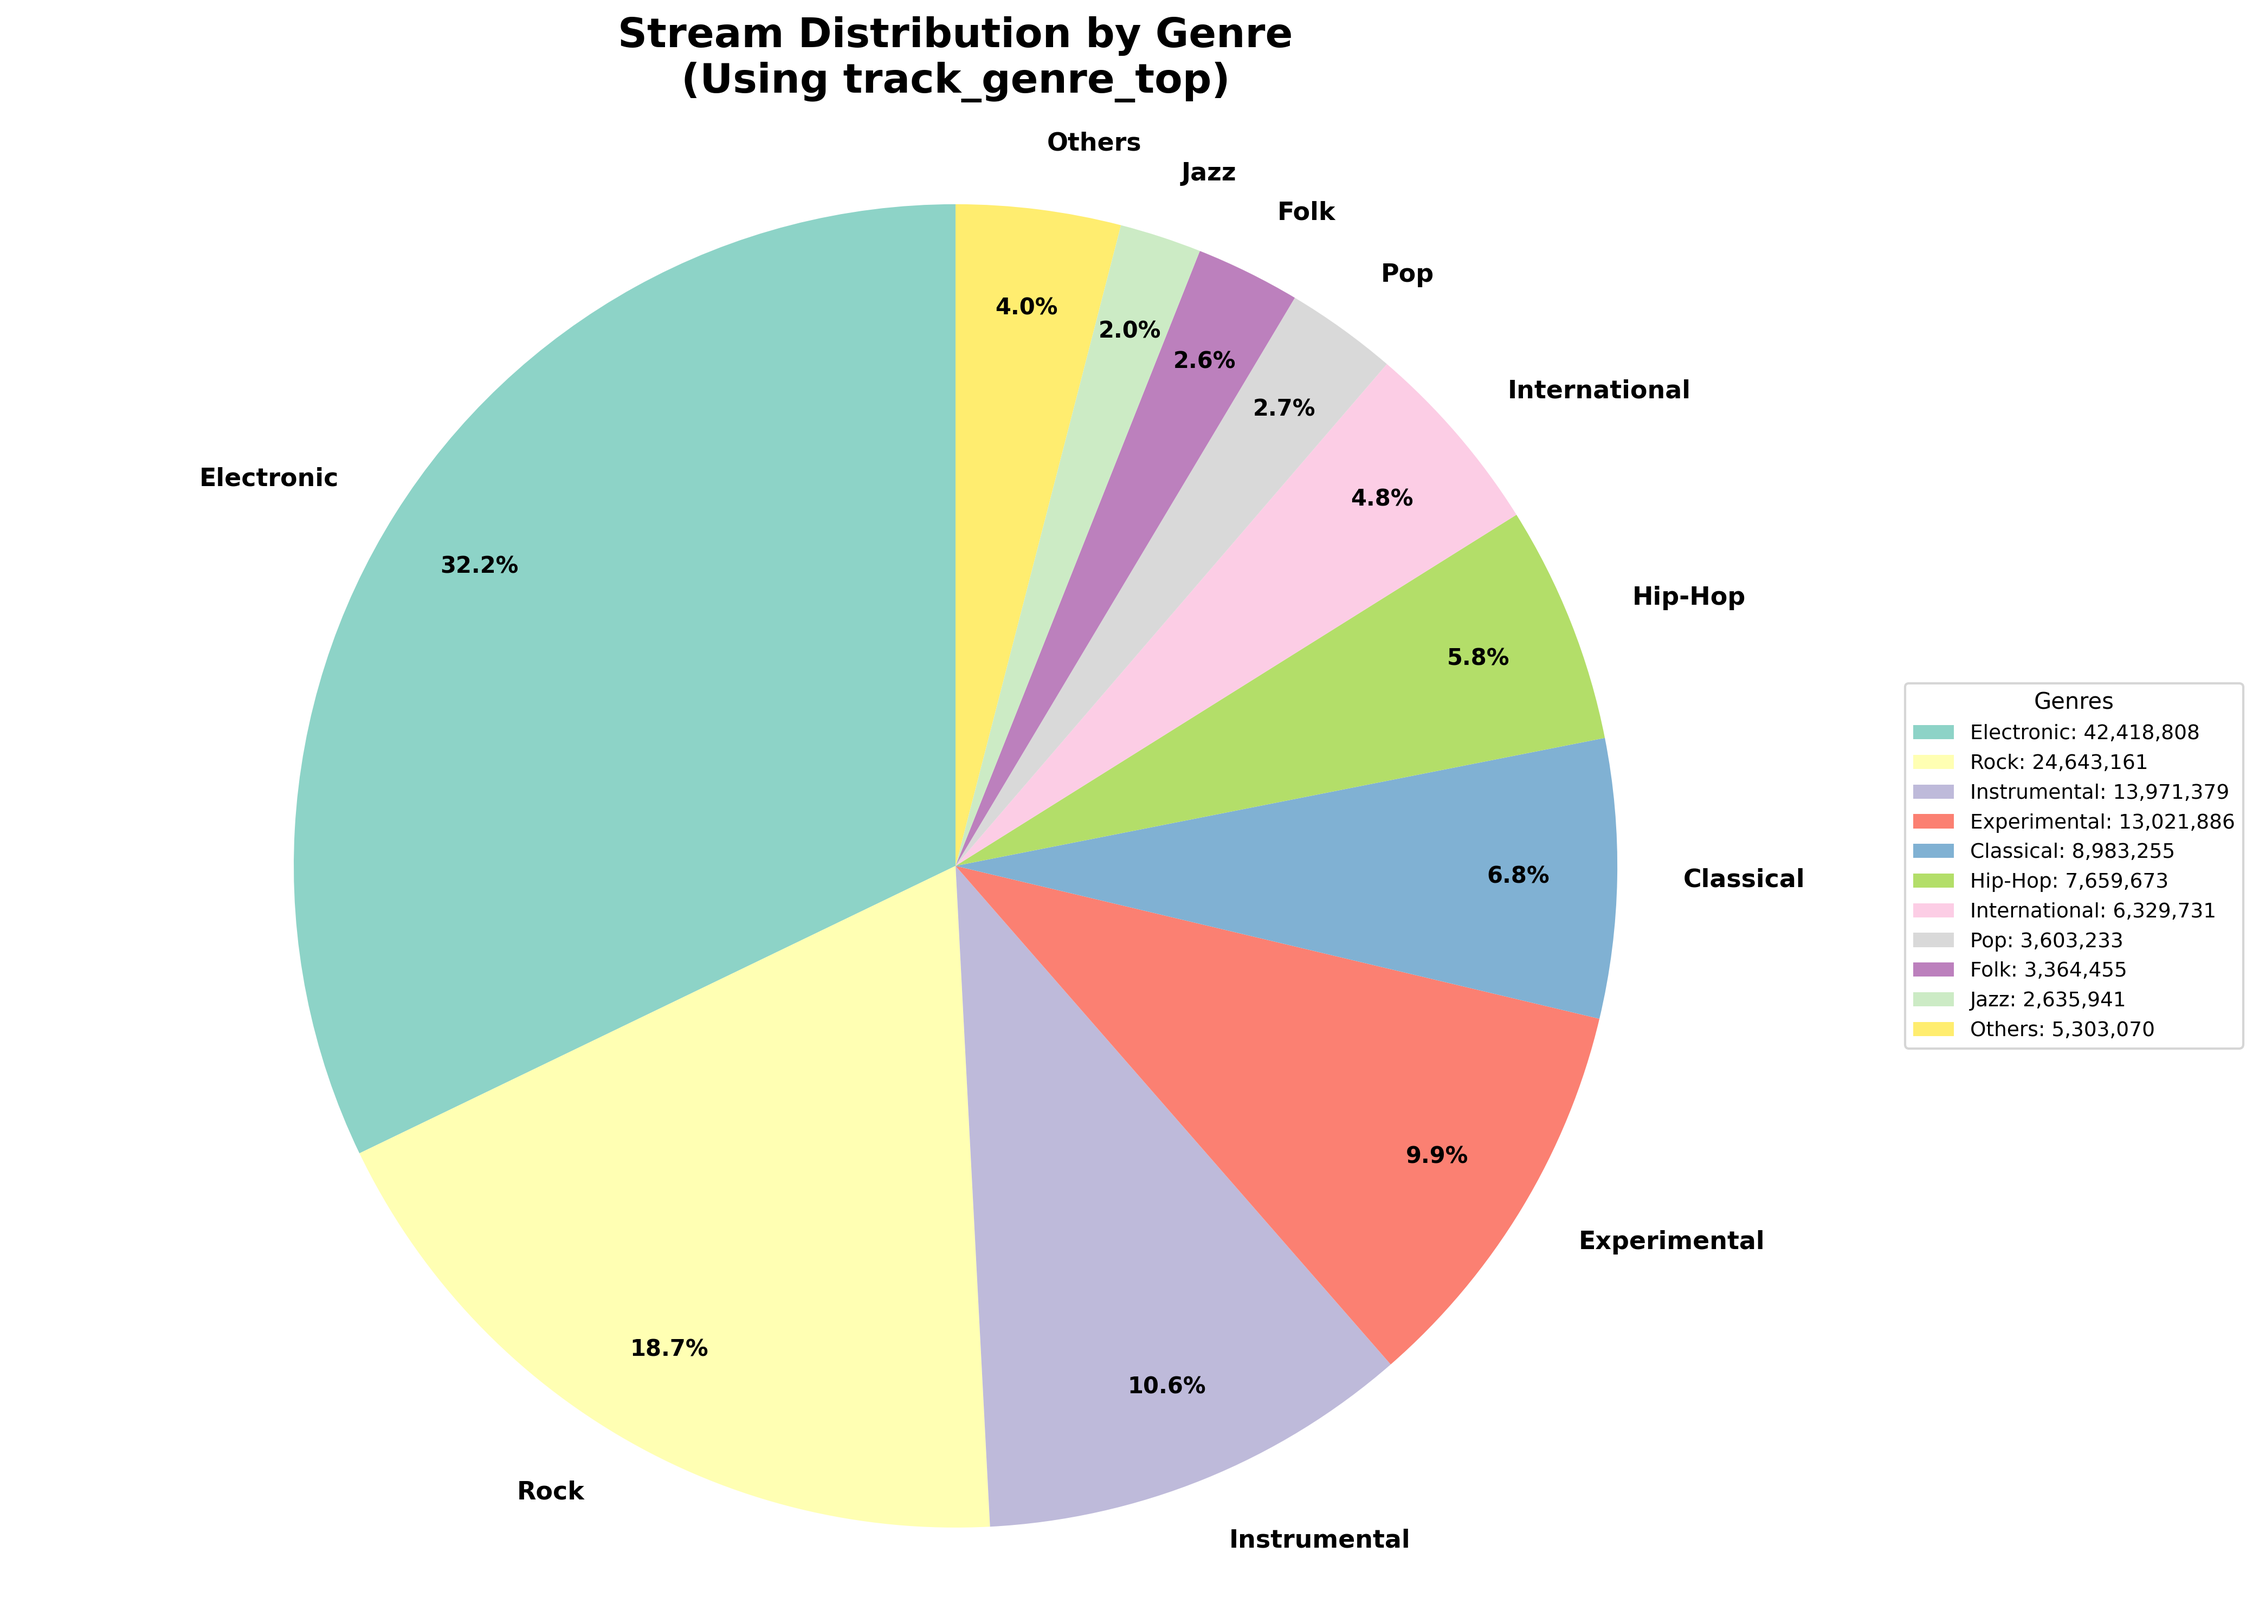
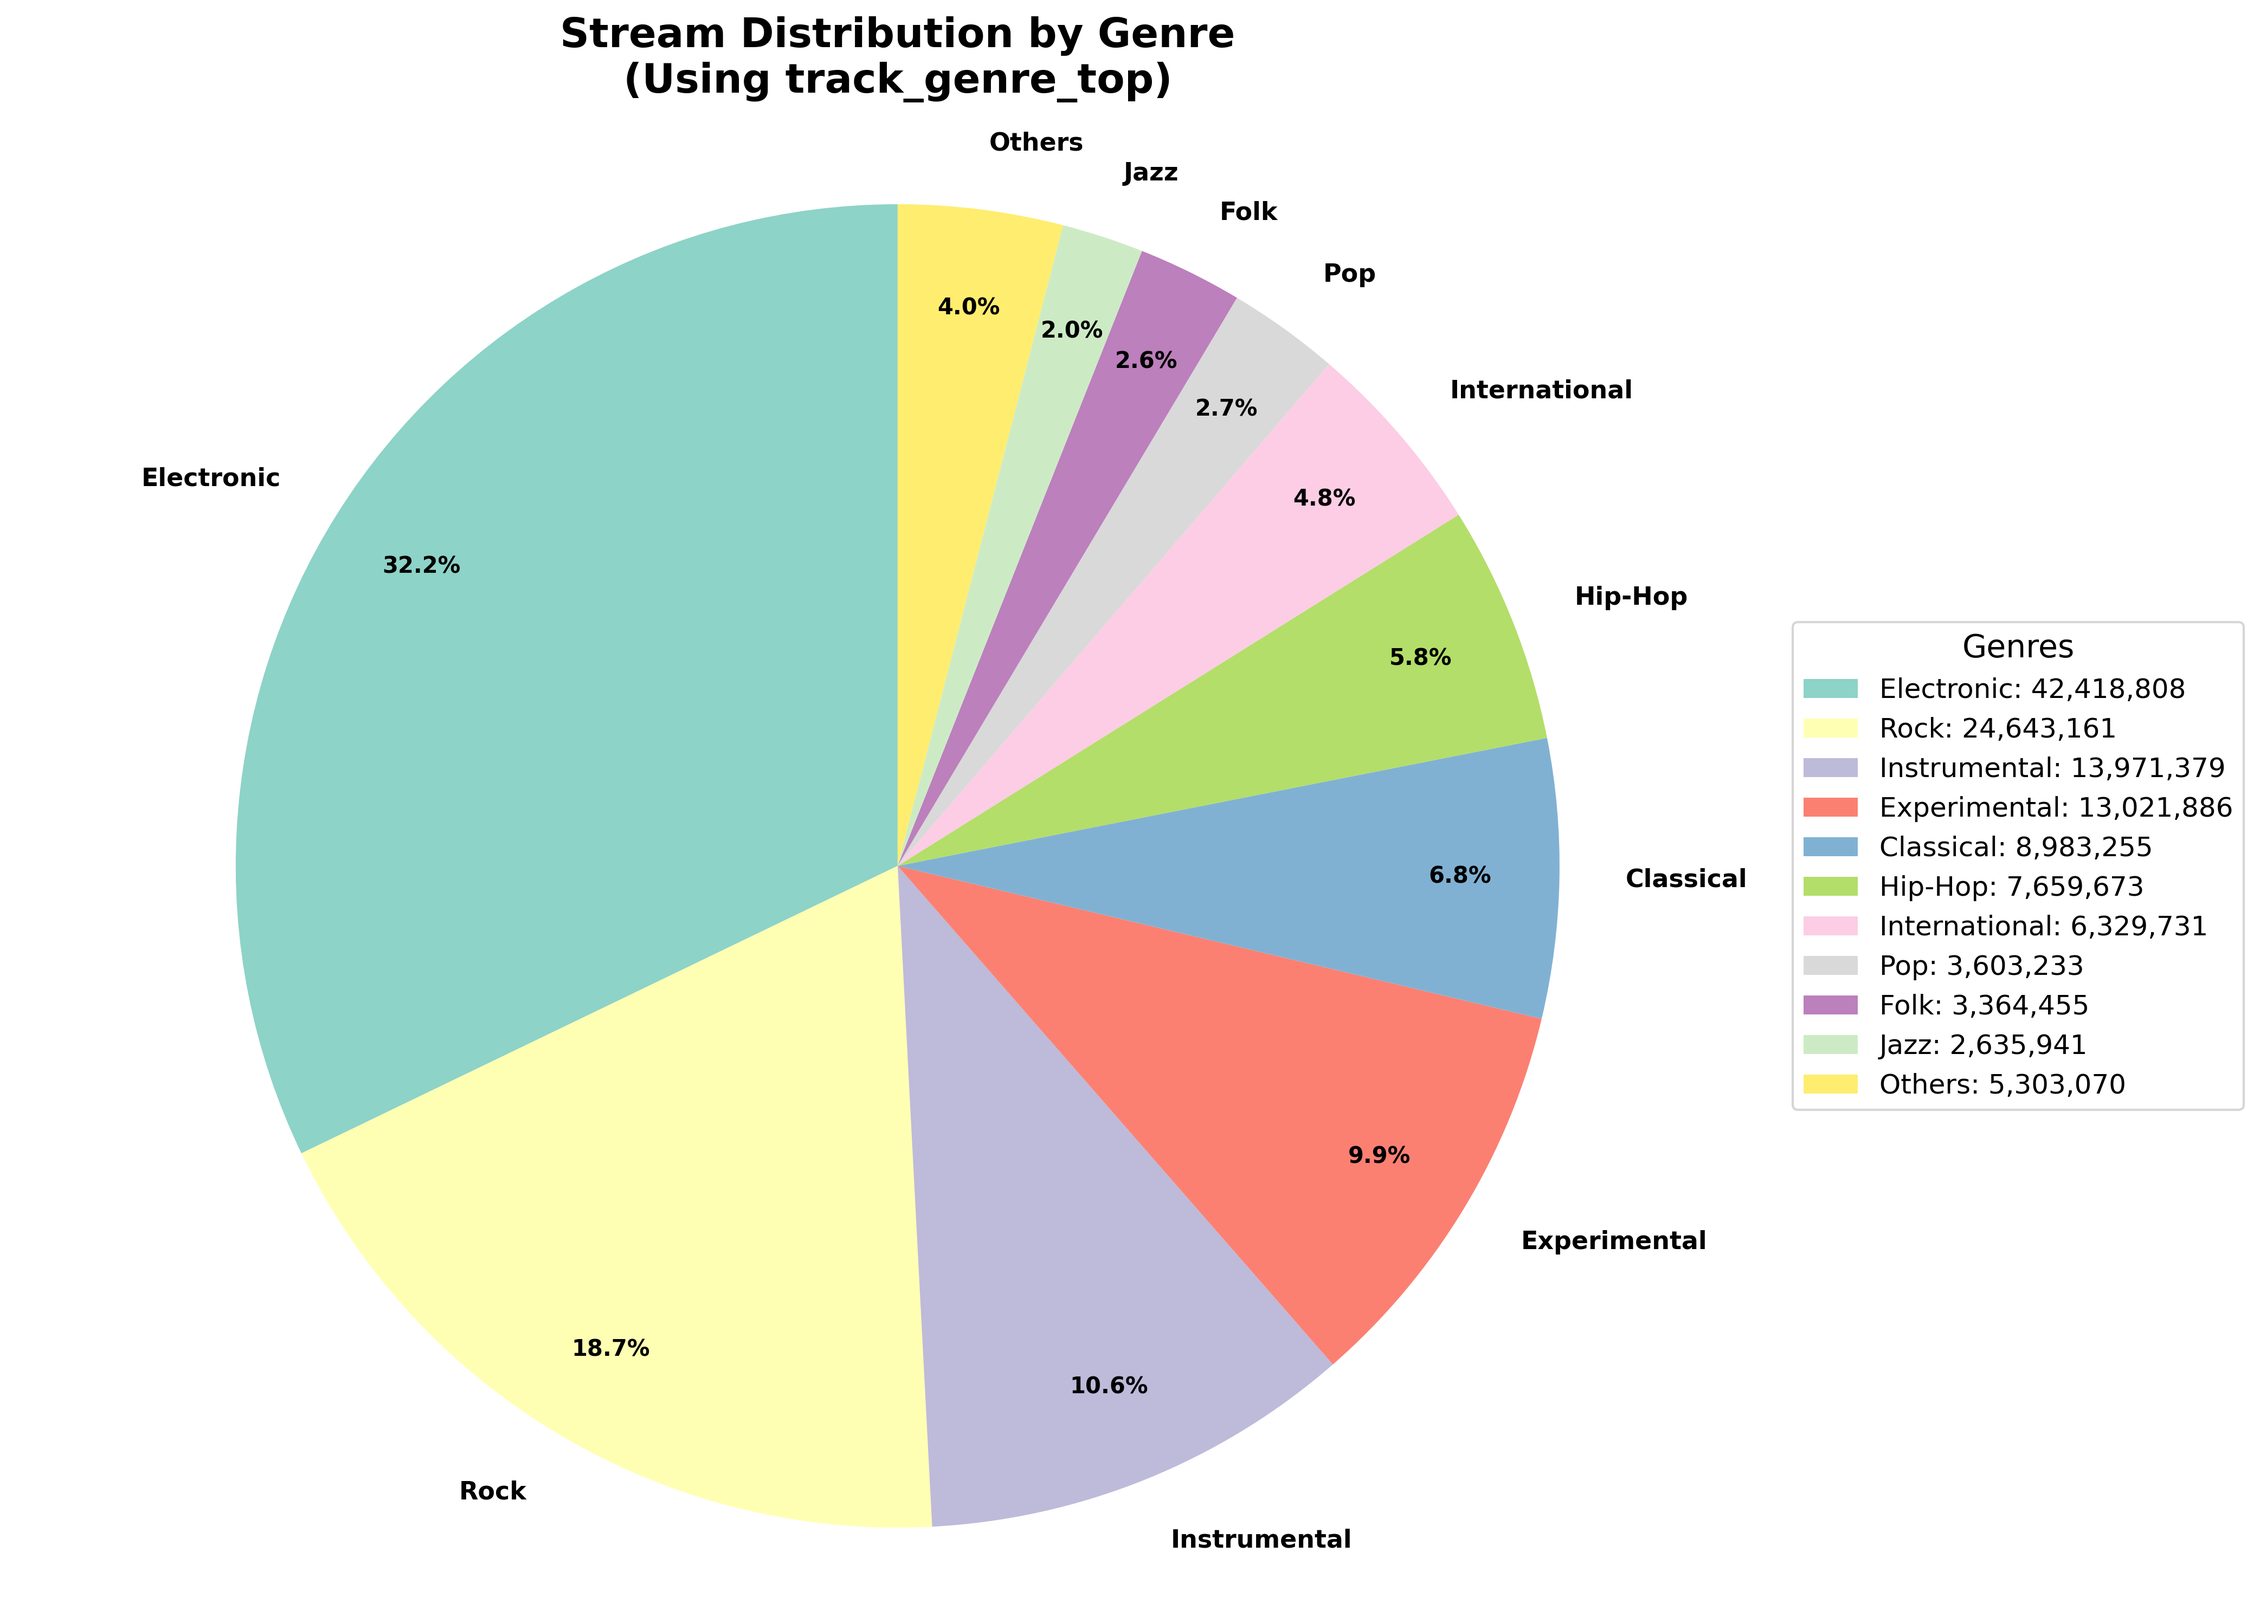
Enhance radar chart visualization and update pie chart legend formatting

diff --git a/src/graph/antoine/radar.py b/src/graph/antoine/radar.py
@@ -9,110 +9,78 @@ df = pd.read_csv('cleaned_data/merged_tracks.csv')
 # Sélectionner les colonnes audio features
 audio_cols = ['acousticness', 'danceability', 'energy', 'speechiness', 'instrumentalness']
 
-# Créer un score composite basé sur les caractéristiques audio
-df_clean = df.dropna(subset=audio_cols).copy()
+# Nettoyer les données
+df_clean = df.dropna(subset=['track_genre_top'] + audio_cols).copy()
 
-# Calculer un score composite (moyenne des caractéristiques normalisées)
-# Toutes les valeurs sont déjà entre 0 et 1
-df_clean['composite_score'] = (
-    df_clean['acousticness'] + 
-    df_clean['danceability'] + 
-    df_clean['energy'] + 
-    df_clean['speechiness'] + 
-    df_clean['instrumentalness']
-) / 5
+# Filtrer les 3 genres souhaités
+selected_genres = ['Rock', 'Instrumental', 'Hip-Hop']
+df_filtered = df_clean[df_clean['track_genre_top'].isin(selected_genres)]
 
-# Trouver la meilleure et la pire musique
-best_track = df_clean.loc[df_clean['composite_score'].idxmax()]
-worst_track = df_clean.loc[df_clean['composite_score'].idxmin()]
-
-# Calculer la moyenne de tous les morceaux
-average_track = {
-    'track_title': 'MOYENNE',
-    'artist_name': 'Tous les morceaux',
-    'composite_score': df_clean['composite_score'].mean(),
-    'acousticness': df_clean['acousticness'].mean(),
-    'danceability': df_clean['danceability'].mean(),
-    'energy': df_clean['energy'].mean(),
-    'speechiness': df_clean['speechiness'].mean(),
-    'instrumentalness': df_clean['instrumentalness'].mean()
-}
-
-print(f"Meilleure musique: {best_track['track_title']} - {best_track['artist_name']}")
-print(f"Score composite: {best_track['composite_score']:.3f}")
-print(f"  - Acousticness: {best_track['acousticness']:.3f}")
-print(f"  - Danceability: {best_track['danceability']:.3f}")
-print(f"  - Energy: {best_track['energy']:.3f}")
-print(f"  - Speechiness: {best_track['speechiness']:.3f}")
-print(f"  - Instrumentalness: {best_track['instrumentalness']:.3f}")
+print(f"Total tracks analyzed: {len(df_filtered)}")
 print()
-print(f"Pire musique: {worst_track['track_title']} - {worst_track['artist_name']}")
-print(f"Score composite: {worst_track['composite_score']:.3f}")
-print(f"  - Acousticness: {worst_track['acousticness']:.3f}")
-print(f"  - Danceability: {worst_track['danceability']:.3f}")
-print(f"  - Energy: {worst_track['energy']:.3f}")
-print(f"  - Speechiness: {worst_track['speechiness']:.3f}")
-print(f"  - Instrumentalness: {worst_track['instrumentalness']:.3f}")
-print()
-print(f"Moyenne (tous les morceaux):")
-print(f"Score composite: {average_track['composite_score']:.3f}")
-print(f"  - Acousticness: {average_track['acousticness']:.3f}")
-print(f"  - Danceability: {average_track['danceability']:.3f}")
-print(f"  - Energy: {average_track['energy']:.3f}")
-print(f"  - Speechiness: {average_track['speechiness']:.3f}")
-print(f"  - Instrumentalness: {average_track['instrumentalness']:.3f}")
-print()
+
+# Calculer la moyenne des caractéristiques audio par genre
+genre_averages = {}
+for genre in selected_genres:
+    genre_data = df_filtered[df_filtered['track_genre_top'] == genre]
+    if len(genre_data) > 0:
+        genre_averages[genre] = {
+            'acousticness': genre_data['acousticness'].mean(),
+            'danceability': genre_data['danceability'].mean(),
+            'energy': genre_data['energy'].mean(),
+            'speechiness': genre_data['speechiness'].mean(),
+            'instrumentalness': genre_data['instrumentalness'].mean(),
+            'count': len(genre_data)
+        }
+        print(f"{genre} ({genre_averages[genre]['count']} tracks):")
+        print(f"  - Acousticness: {genre_averages[genre]['acousticness']:.3f}")
+        print(f"  - Danceability: {genre_averages[genre]['danceability']:.3f}")
+        print(f"  - Energy: {genre_averages[genre]['energy']:.3f}")
+        print(f"  - Speechiness: {genre_averages[genre]['speechiness']:.3f}")
+        print(f"  - Instrumentalness: {genre_averages[genre]['instrumentalness']:.3f}")
+        print()
 
 # Préparer les données pour le radar chart
 categories = ['Acousticness', 'Danceability', 'Energy', 'Speechiness', 'Instrumentalness']
 
-# Normaliser les valeurs entre 0 et 1 pour le graphique
-def normalize_values(track_data):
-    values = []
-    
-    # Acousticness (déjà normalisé entre 0 et 1)
-    values.append(track_data['acousticness'])
-    
-    # Danceability (déjà normalisé entre 0 et 1)
-    values.append(track_data['danceability'])
-    
-    # Energy (déjà normalisé entre 0 et 1)
-    values.append(track_data['energy'])
-    
-    # Speechiness (déjà normalisé entre 0 et 1)
-    values.append(track_data['speechiness'])
-    
-    # Instrumentalness (déjà normalisé entre 0 et 1)
-    values.append(track_data['instrumentalness'])
-    
-    return values
+# Fonction pour extraire les valeurs normalisées
+def get_genre_values(genre_stats):
+    return [
+        genre_stats['acousticness'],
+        genre_stats['danceability'],
+        genre_stats['energy'],
+        genre_stats['speechiness'],
+        genre_stats['instrumentalness']
+    ]
 
-best_values = normalize_values(best_track)
-worst_values = normalize_values(worst_track)
-average_values = normalize_values(average_track)
+# Extraire les valeurs pour chaque genre
+genre_values = {}
+for genre in selected_genres:
+    if genre in genre_averages:
+        genre_values[genre] = get_genre_values(genre_averages[genre])
 
 # Créer le radar chart
 angles = [n / float(len(categories)) * 2 * pi for n in range(len(categories))]
-best_values += best_values[:1]  # Compléter le cercle
-worst_values += worst_values[:1]
-average_values += average_values[:1]
 angles += angles[:1]
 
 # Initialiser le graphique
 fig, ax = plt.subplots(figsize=(12, 10), subplot_kw=dict(projection='polar'))
 
-# Tracer les données
-best_label = f'{best_track["track_title"][:25]} - {best_track["artist_name"][:20]}'
-worst_label = f'{worst_track["track_title"][:25]} - {worst_track["artist_name"][:20]}'
+# Couleurs avec bon contraste
+colors = {
+    'Rock': '#E63946',              # Rouge vif
+    'Instrumental': '#2A9D8F',      # Vert turquoise
+    'Hip-Hop': '#F77F00'            # Orange
+}
 
-ax.plot(angles, best_values, 'o-', linewidth=2.5, label=f'Best: {best_label}', color='#00b894')
-ax.fill(angles, best_values, alpha=0.25, color='#00b894')
-
-ax.plot(angles, worst_values, 'o-', linewidth=2.5, label=f'Worst: {worst_label}', color='#d63031')
-ax.fill(angles, worst_values, alpha=0.25, color='#d63031')
-
-ax.plot(angles, average_values, 'o--', linewidth=3, label='Average (all tracks)', color='#fdcb6e')
-ax.fill(angles, average_values, alpha=0.15, color='#fdcb6e')
+# Tracer les données pour chaque genre
+for genre in selected_genres:
+    if genre in genre_values:
+        values = genre_values[genre] + genre_values[genre][:1]  # Compléter le cercle
+        ax.plot(angles, values, 'o-', linewidth=2.5, 
+                label=f'{genre} (n={genre_averages[genre]["count"]})', 
+                color=colors[genre])
+        ax.fill(angles, values, alpha=0.15, color=colors[genre])
 
 # Configurer les étiquettes
 ax.set_xticks(angles[:-1])
@@ -123,9 +91,9 @@ ax.set_yticklabels(['0.2', '0.4', '0.6', '0.8', '1.0'], size=10)
 ax.grid(True, linewidth=0.5, alpha=0.7)
 
 # Titre et légende
-plt.title('Radar Chart: Best vs Worst vs Average\n(Audio Features)', 
-          size=18, pad=20, weight='bold')
-plt.legend(loc='upper right', bbox_to_anchor=(1.4, 1.1), fontsize=10)
+plt.title('Genre Comparison: Average Audio Features\n(Rock, Instrumental, Hip-Hop)', 
+          size=16, pad=20, weight='bold')
+plt.legend(loc='upper right', bbox_to_anchor=(1.35, 1.1), fontsize=14)
 
 plt.tight_layout()
 plt.savefig('src/graph/antoine/radar_comparison.png', dpi=300, bbox_inches='tight')

diff --git a/src/graph/antoine/pie.py b/src/graph/antoine/pie.py
@@ -73,7 +73,8 @@ ax.legend(
     title="Genres",
     loc="center left",
     bbox_to_anchor=(1, 0, 0.5, 1),
-    fontsize=9
+    fontsize=12,
+    title_fontsize=14
 )
 
 plt.tight_layout()
